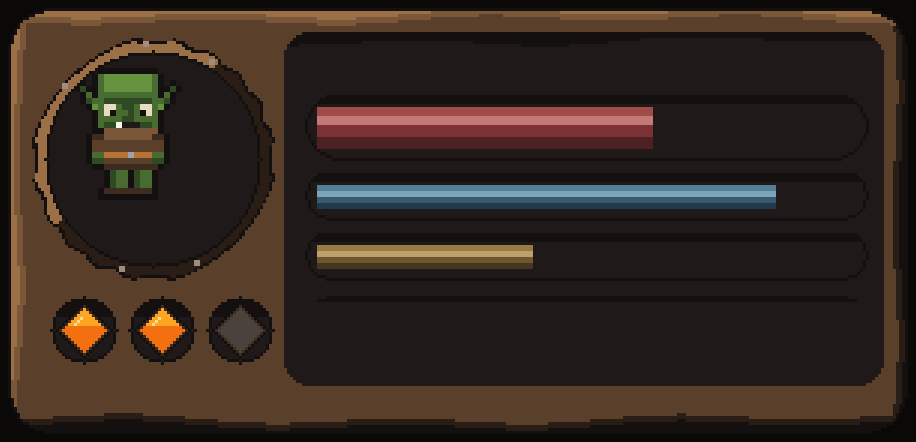
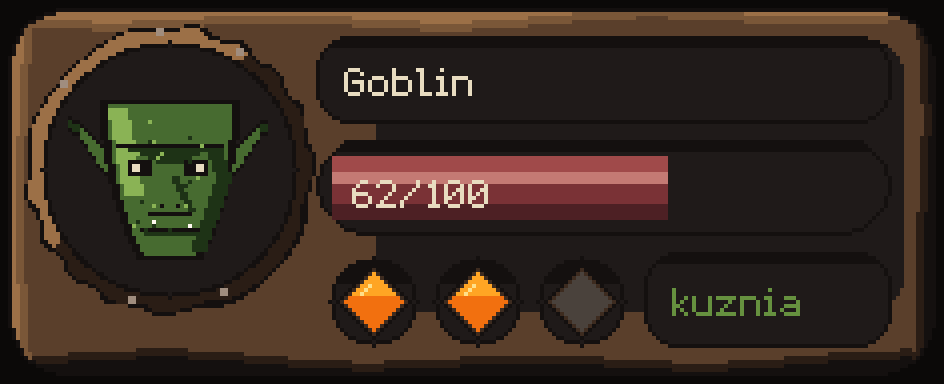
Panel gracza w grze: duza twarz, jeden pasek, uniki, imie i strefa
Uwagi uzytkownika, wszystkie trafione:

- GOBLIN BYL WKLEJONA CALA POSTACIA w rogu. Portret to teraz DUZA TWARZ
  rysowana osobno, w rozdzielczosci portretu. Powiekszony sprite z gry nie
  moze zadzialac: czaszka w swiecie ma dziewiec pikseli wysokosci, wiec po
  powiekszeniu widac dziewiec wielkich kwadratow, a nie twarz. Portret ma
  piecdziesiat i miesci brew, faldy nosa, kiel i cien pod kością policzkowa.
- MANA WYLECIALA. Panel miał trzy gniazda, z ktorych jedno pokazywalo
  nieistniejaca wartosc, a drugie swiecilo pustka - to byla glowna przyczyna
  wrazenia pustki. Zostaje zycie; glod dojdzie razem z jedzeniem, a role
  wytrzymalosci pelnia ladunki uniku.
- PASKI NIEWYMIAROWE. Panel scisniety z 300x142 do 232x92, jeden szeroki
  pasek zycia z liczba w srodku.
- ZADEN TEKST NIE WISI LUZEM: imie, liczba zycia i nazwa strefy maja wlasne
  wglebienia w desce.

Interfejs rysowany w POWIEKSZENIU x3. Kanwa pracuje w pelnej rozdzielczosci
monitora, wiec panel szeroki na 232 piksele zajmowal na ekranie 1920 nieco
ponad dziesiata czesc szerokosci - i tego uzytkownik nie byl w stanie
zobaczyc w grze.

diff --git a/client/src/scenes/Hud.js b/client/src/scenes/Hud.js
@@ -11,6 +11,22 @@ import { createChatInput } from '../ui/chat.js';
 import { bubbleShape, bubbleWidth, BUBBLE_COLORS } from '../render/bubble.js';
 import { DODGE_CHARGES } from '../world/movement.js';
 
+// Uklad panelu gracza. Liczby pochodza z generatora (tools/art/panel.js) i sa
+// tu powtorzone, bo klient nie importuje niczego z narzedzi budowania.
+// Przy zmianie ukladu poprawic w obu miejscach.
+const PANEL_X = 14;
+const PANEL_Y = 14;
+// Interfejs rysujemy w powiekszeniu, tak jak swiat. Kanwa pracuje w pelnej
+// rozdzielczosci monitora, wiec panel szeroki na 232 piksele zajmowalby na
+// ekranie 1920 nieco ponad dziesiata czesc szerokosci - i tego wlasnie
+// uzytkownik nie byl w stanie zobaczyc w grze.
+const UI_SCALE = 3;
+const BAR_SLOTS = [{ key: 'life', x: 78, y: 34, w: 142, h: 22 }];
+const PORTRAIT = { x: 8, y: 8, r: 32 };
+const NAME_SLOT = { x: 78, y: 8, w: 142, h: 20 };
+const PIP_SLOTS = [{ x: 80, y: 62 }, { x: 106, y: 62 }, { x: 132, y: 62 }];
+const ZONE_SLOT = { x: 160, y: 62, w: 60, h: 22 };
+
 // Szerokość nierozciąganego brzegu ramki 9-slice.
 //
 // **Musi zgadzać się z `SLICE` w `tools/art/ui.js`** — to ta sama grafika
@@ -629,45 +645,47 @@ export class HudScene extends Phaser.Scene {
     // Ramka jako sprite dziewięciodzielny — ten sam, którym będą obramowane panel
     // plecaka i okno opcji. Phaser umie 9-slice sam, więc rozciąganie nie rozmywa
     // rogów, choćby pasek miał dowolną szerokość.
-    this.panel = this.add.image(PANEL_X, PANEL_Y, 'ui', 'player_panel')
-      .setOrigin(0, 0)
-      .setScale(UI_SCALE)
-      .setDepth(DEPTH.plate);
+    const at = (x, y) => [PANEL_X + x * UI_SCALE, PANEL_Y + y * UI_SCALE];
 
-    // Wypełnienia pasków rysujemy sami — muszą się zmieniać płynnie, więc nie
-    // mogą być gotowym obrazkiem. Idą **pod** panelem, bo panel ma w sobie
-    // wgłębienia z cieniem i to on ma zostać na wierzchu.
-    this.health = this.add.graphics().setDepth(DEPTH.plate + 1);
+    // Portret **pod** panelem: panel ma wycięte okrągłe gniazdo z cieniem
+    // i to ono ma przykryć krawędzie twarzy.
+    this.portrait = this.add.image(...at(PORTRAIT.x + 8, PORTRAIT.y + 6), 'ui', 'face_0')
+      .setOrigin(0, 0).setScale(UI_SCALE).setDepth(DEPTH.plate - 1);
+
+    // Wypełnienie paska też pod panelem — gniazdo ma zaokrąglone końce i cień
+    // od górnej krawędzi, więc nadmiar wypełnienia chowa się pod nimi.
+    this.health = this.add.graphics().setDepth(DEPTH.plate - 1);
+
+    this.panel = this.add.image(PANEL_X, PANEL_Y, 'ui', 'player_panel')
+      .setOrigin(0, 0).setScale(UI_SCALE).setDepth(DEPTH.plate);
 
     this.healthShown = 1;
     this.healthGhost = 1;
     this.healthValue = 1;
 
-    // Portret w okrągłej ramie panelu: ten sam goblin, którym gra się w świecie.
-    this.portrait = this.add.image(0, 0, 'goblins', 'g0_down_idle0')
-      .setOrigin(0.5, 0.5)
-      .setScale(UI_SCALE * 2)
-      .setDepth(DEPTH.plate + 2);
-
-    this.nameLabel = this.add.bitmapText(0, 0, 'goblin', '', 11)
-      .setScale(UI_SCALE).setTint(TEXT).setDepth(DEPTH.plate + 3);
+    const BAR = BAR_SLOTS[0];
+    this.healthLabel = this.add.bitmapText(...at(BAR.x + 8, BAR.y + 7), 'goblin', '', 11)
+      .setScale(UI_SCALE).setTint(TEXT).setDepth(DEPTH.plate + 1);
+    this.nameLabel = this.add.bitmapText(...at(NAME_SLOT.x + 7, NAME_SLOT.y + 5), 'goblin', '', 11)
+      .setScale(UI_SCALE).setTint(TEXT).setDepth(DEPTH.plate + 1);
 
     // Znaczniki uniku. Pusty i pełny to osobne sprite'y; ładujący się rysujemy
     // przycięciem pełnego, żeby wypełniał się od dołu.
     this.pips = [];
     for (let i = 0; i < DODGE_CHARGES; i++) {
+      const [px, py] = at(PIP_SLOTS[i].x + 2, PIP_SLOTS[i].y + 2);
       this.pips.push({
-        empty: this.add.image(0, 0, 'ui', 'pip_empty')
-          .setOrigin(0, 0).setScale(UI_SCALE).setDepth(DEPTH.plate + 2),
-        full: this.add.image(0, 0, 'ui', 'pip_full')
-          .setOrigin(0, 0).setScale(UI_SCALE).setDepth(DEPTH.plate + 3),
+        full: this.add.image(px, py, 'ui', 'pip_full')
+          .setOrigin(0, 0).setScale(UI_SCALE).setDepth(DEPTH.plate + 1),
       });
     }
     this.dodgeFuel = DODGE_CHARGES;
+
+    this.zone.setPosition(...at(ZONE_SLOT.x + 6, ZONE_SLOT.y + 6)).setScale(UI_SCALE);
   }
 
   setPlayerName(name) {
-    this.playerName = name;
+    this.nameLabel?.setText(name ?? '');
   }
 
   setHealth(hp, maxHp, safe) {
@@ -690,75 +708,38 @@ export class HudScene extends Phaser.Scene {
     this.healthGhost += (this.healthShown - this.healthGhost) * Math.min(1, dt * 2.6);
     if (this.healthGhost < this.healthShown) this.healthGhost = this.healthShown;
 
-    // Cały stan ciała w jednym bloku: pasek życia, a pod nim uniki i nazwa strefy.
-    // Oko ma mieć **jeden adres**, nie trzy rozrzucone po ekranie.
-    // Rozmiar dobrany po uwadze użytkownika, że poprzedniego paska **w ogóle nie
-    // zauważył**. To jest właściwa lekcja o HUD-zie: element czytany kątem oka
-    // musi być wyraźnie większy, niż wydaje się potrzebne, gdy patrzy się na niego
-    // wprost. Poprzedni miał 176×15 i chował się w rogu.
-    const FRAME_W = 232;
-    const FRAME_H = 26;
-    // Lewy górny róg, nie dolny: tam odruchowo szuka się swojego stanu i tam
-    // trzyma go większość gier tego rodzaju.
-    const x = 12;
-    const y = 12;
-    // Wnętrze ramki, licząc jej trzypikselowy brzeg.
-    const bx = x + SLICE;
-    const by = y + SLICE;
-    const bw = FRAME_W - SLICE * 2;
-    const bh = FRAME_H - SLICE * 2;
-
-    this.healthFrame.setPosition(x, y);
+    // Wypelnienie paska zycia. Rysowane pod panelem, ktory ma zaokraglone
+    // gniazdo z cieniem - nadmiar chowa sie pod jego krawedziami.
+    const BAR = BAR_SLOTS[0];
+    const bx = PANEL_X + (BAR.x + 3) * UI_SCALE;
+    const by = PANEL_Y + (BAR.y + 3) * UI_SCALE;
+    const bw = (BAR.w - 6) * UI_SCALE;
+    const bh = (BAR.h - 6) * UI_SCALE;
 
     this.health.clear();
-    this.health.fillStyle(0x231c15, 1);
-    this.health.fillRect(bx, by, bw, bh);
-    // Jasny ślad po świeżej stracie — to on pokazuje wielkość ciosu.
-    this.health.fillStyle(0xffe08a, 0.5);
+    // Jasny slad po swiezej stracie - to on pokazuje wielkosc ciosu.
+    this.health.fillStyle(0xc47a74, 0.85);
     this.health.fillRect(bx, by, Math.round(bw * this.healthGhost), bh);
-    // Zieleń przy pełnym życiu, żar przy resztkach — kolor sam ostrzega.
+    // Rampa life z palety: przygaszona czerwien, nie neon.
     const low = this.healthShown < 0.3;
-    this.health.fillStyle(low ? 0xc43a0d : 0x66913f, 1);
     const filled = Math.round(bw * this.healthShown);
+    this.health.fillStyle(low ? 0x7a3236 : 0xa04a4a, 1);
     this.health.fillRect(bx, by, filled, bh);
-    // Jaśniejszy grzbiet u góry wypełnienia: pasek przestaje być płaską plamą.
-    this.health.fillStyle(low ? 0xf2700f : 0x8ab355, 1);
-    this.health.fillRect(bx, by, filled, 2);
+    this.health.fillStyle(low ? 0xa04a4a : 0xc47a74, 1);
+    this.health.fillRect(bx, by, filled, Math.round(bh * 0.34));
 
-    if (!this.healthLabel) {
-      this.healthLabel = this.add.bitmapText(0, 0, 'goblin', '', 11)
-        .setDepth(DEPTH.plate + 2)
-        .setTint(TEXT);
-    }
-    // Liczba **w pasku**, nie obok niego: obok robi się z niej osobny element,
-    // którego oko musi szukać. W środku jest częścią paska.
-    this.healthLabel.setPosition(bx + 5, by + Math.round((bh - 11) / 2));
     this.healthLabel.setText(this.healthText ?? '');
 
-    // Uniki pod paskiem.
-    //
-    // Ładujący się znacznik **wypełnia się od dołu**, więc widać nie tylko ile
-    // masz, ale ile *zaraz* będziesz miał — a to jest różnica między „mam jeden"
-    // a „za pół sekundy mam dwa", czyli dokładnie ta informacja, na której opiera
-    // się decyzja o wejściu w zwarcie.
-    const py = y + FRAME_H + 4;
+    // Uniki: ladujacy sie znacznik wypelnia sie OD DOLU, wiec widac nie tylko
+    // ile masz, ale ile zaraz bedziesz mial.
     this.pips.forEach((pip, i) => {
-      const px = x + 2 + i * 23;
-      pip.empty.setPosition(px, py);
-      pip.full.setPosition(px, py);
-
       const part = Math.max(0, Math.min(1, this.dodgeFuel - i));
       pip.full.setVisible(part > 0);
       if (part <= 0) return;
       const h = pip.full.height;
       const shown = Math.max(1, Math.round(h * part));
-      // Przycinamy od dołu: widoczny zostaje dolny pasek pełnego rombu.
       pip.full.setCrop(0, h - shown, pip.full.width, shown);
     });
-
-    // Nazwa strefy pod znacznikami — najmniejszy element bloku, bo zmienia się
-    // rzadko. Kolor niesie w niej całą treść.
-    this.zone.setPosition(x + 3, py + 24);
   }
 
   update(time, delta) {
@@ -783,3 +764,5 @@ export class HudScene extends Phaser.Scene {
     }
   }
 }
+
+

diff --git a/tools/art/panel.js b/tools/art/panel.js
@@ -22,27 +22,127 @@ import { Canvas } from './canvas.js';
 import { c } from './palette.js';
 import { makeRng, seedFrom } from './rng.js';
 
-export const PANEL_W = 300;
-export const PANEL_H = 142;
+export const PANEL_W = 232;
+export const PANEL_H = 92;
 
-// Gniazda pasków w układzie panelu — gra maluje w nich wypełnienie i liczby.
-export const BAR_SLOTS = [
-  { key: 'life', x: 100, y: 30, w: 186, h: 20 },
-  { key: 'stamina', x: 100, y: 56, w: 186, h: 14 },
-  { key: 'food', x: 100, y: 76, w: 186, h: 14 },
-];
-export const PORTRAIT = { x: 12, y: 14, r: 36 };
-export const NAME_AT = { x: 100, y: 12 };
-
-// Gniazda znaczników uniku i pasek nazwy strefy — **w panelu**, nie obok niego.
+// Paski: **tylko te, które istnieją w grze.**
 //
-// Zasada wyniesiona wprost od użytkownika: żaden tekst ani znak nie może wisieć
-// luzem na ekranie. Napis bez pojemnika czyta się jak nakładka na grę, a nie jak
-// jej część — i to wybija z gry mocniej niż brak informacji.
-export const PIP_SLOTS = [
-  { x: 14, y: 96 }, { x: 40, y: 96 }, { x: 66, y: 96 },
+// Poprzedni układ miał trzy: życie, wytrzymałość i głód. Wytrzymałości nie ma
+// i długo nie będzie — jej rolę pełnią ładunki uniku — a głód dojdzie dopiero
+// razem z jedzeniem. Trzy gniazda, z których jedno świeciło pustką, a drugie
+// pokazywało nieistniejącą wartość, to była główna przyczyna wrażenia pustki:
+// panel obiecywał trzy rzeczy, a niósł jedną.
+export const BAR_SLOTS = [
+  { key: 'life', x: 78, y: 34, w: 142, h: 22 },
 ];
-export const ZONE_SLOT = { x: 100, y: 96, w: 186, h: 22 };
+export const PORTRAIT = { x: 8, y: 8, r: 32 };
+export const NAME_SLOT = { x: 78, y: 8, w: 142, h: 20 };
+
+// Gniazda znaczników uniku — w panelu, nie obok niego. Żaden znak ani tekst nie
+// może wisieć luzem na ekranie: bez pojemnika czyta się jak nakładka na grę.
+export const PIP_SLOTS = [
+  { x: 80, y: 62 }, { x: 106, y: 62 }, { x: 132, y: 62 },
+];
+export const ZONE_SLOT = { x: 160, y: 62, w: 60, h: 22 };
+
+/**
+ * Twarz goblina do portretu — **rysowana osobno**, w rozdzielczości portretu.
+ *
+ * Nie jest to powiększony sprite z gry i to jest tu sedno. Postać w świecie ma
+ * czaszkę wysoką na dziewięć pikseli: po powiększeniu do portretu widać z niej
+ * dziewięć wielkich kwadratów, a nie twarz. Portret ma pięćdziesiąt pikseli
+ * i mieści to, czego w sprite'cie nie da się zmieścić — brew, fałdę nosa,
+ * kieł, cień pod kością policzkową.
+ *
+ * Rysowana **sama głowa**, nie sylwetka. Cała postać wciśnięta w kółko czyta się
+ * jak figurka w słoiku; portret to twarz.
+ */
+export function goblinFace(name, { skin = ['#1e3316', '#476b30', '#8ab355'] } = {}) {
+  const rng = makeRng(seedFrom(name));
+  const S = 50;
+  const t = new Canvas(S, S);
+  const [dark, mid, light] = skin;
+  const edge = c('soot', 0);
+
+  const cx = 25;
+  const cy = 27;
+
+  // Uszy: długie, spiczaste, odstające. To one robią goblina — bez nich każda
+  // zielona głowa jest po prostu zielona.
+  const ear = (dir) => {
+    for (let i = 0; i < 16; i++) {
+      const x = cx + dir * (13 + i);
+      const y = cy - 4 - Math.round(i * 0.85);
+      const grubosc = Math.max(1, 7 - Math.round(i * 0.45));
+      for (let g = 0; g < grubosc; g++) t.px(x, y + g, i < 10 ? mid : dark);
+      t.px(x, y - 1, edge);
+      t.px(x, y + grubosc, edge);
+    }
+  };
+  ear(-1);
+  ear(1);
+
+  // Czaszka: szeroka u góry, zwężająca się w podbródek.
+  for (let y = -19; y <= 20; y++) {
+    const k = (y + 19) / 39;
+    const szer = Math.round(17 - k * k * 9);
+    for (let x = -szer; x <= szer; x++) {
+      const brzeg = Math.abs(x) >= szer - 1 || y === -19 || y === 20;
+      t.px(cx + x, cy + y, brzeg ? edge : mid);
+    }
+  }
+  // Światło z góry z lewej, cień po prawej i pod policzkami.
+  for (let y = -17; y <= 4; y++) {
+    const k = (y + 17) / 21;
+    const szer = Math.round(15 - k * 4);
+    for (let x = -szer; x <= -szer + 4; x++) t.px(cx + x, cy + y, light);
+  }
+  for (let y = -8; y <= 18; y++) {
+    const szer = Math.round(15 - Math.abs(y) * 0.35);
+    for (let x = szer - 3; x <= szer; x++) t.px(cx + x, cy + y, dark);
+  }
+
+  // Brwi: gruba, nawisająca kość — goblin patrzy spode łba.
+  for (let x = -13; x <= 13; x++) {
+    const h = 3 + Math.round(Math.cos(x * 0.24) * 2);
+    for (let g = 0; g < h; g++) t.px(cx + x, cy - 8 + g, g === 0 ? edge : dark);
+  }
+
+  // Oczy pod brwiami, głęboko osadzone.
+  for (const side of [-1, 1]) {
+    const ex = cx + side * 7;
+    t.rect(ex - 3, cy - 4, 6, 4, edge);
+    t.rect(ex - 2, cy - 3, 4, 2, c('parchment'));
+    t.rect(ex - (side < 0 ? 0 : 2), cy - 3, 2, 2, c('soot', 0));
+  }
+
+  // Nos: szeroki, zadarty, z nozdrzami.
+  for (let y = 0; y <= 8; y++) {
+    const szer = 2 + Math.round(y * 0.45);
+    for (let x = -szer; x <= szer; x++) t.px(cx + x, cy + y, x > szer - 2 ? dark : mid);
+  }
+  t.px(cx - 2, cy + 7, edge);
+  t.px(cx + 2, cy + 7, edge);
+  t.hline(cx - 5, cx + 5, cy + 9, edge);
+
+  // Usta z kłem wystającym z dolnej wargi.
+  t.hline(cx - 7, cx + 7, cy + 13, edge);
+  t.hline(cx - 6, cx + 6, cy + 14, dark);
+  t.px(cx - 4, cy + 12, c('bone'));
+  t.px(cx - 4, cy + 11, c('bone'));
+  t.px(cx + 5, cy + 12, c('bone'));
+
+  // Cętki na skórze — nierówne, po kilka pikseli. Gładka zieleń wygląda jak plastik.
+  for (let i = 0; i < 22; i++) {
+    const a = rng.range(0, Math.PI * 2);
+    const d = rng.range(4, 14);
+    const x = Math.round(cx + Math.cos(a) * d);
+    const y = Math.round(cy + Math.sin(a) * d * 1.2);
+    if (t.alphaAt(x, y)) t.px(x, y, rng.chance(0.5) ? dark : light);
+  }
+
+  return t;
+}
 
 /** Czy punkt leży w prostokącie o zaokrąglonych rogach. */
 function inRound(x, y, rect, r) {
@@ -169,11 +269,20 @@ export function playerPanel(name) {
     }
   }
 
-  // 5c. Pasek nazwy strefy — wgłębienie na tekst, żeby napis miał swoje miejsce.
-  for (let y = ZONE_SLOT.y; y < ZONE_SLOT.y + ZONE_SLOT.h; y++) {
-    for (let x = ZONE_SLOT.x; x < ZONE_SLOT.x + ZONE_SLOT.w; x++) {
-      if (!inRound(x, y, ZONE_SLOT, 7)) continue;
-      t.px(x, y, y - ZONE_SLOT.y < 2 ? edge : inside);
+  // 5c. Gniazda na tekst: nazwa strefy i imię. Wgłębienia, żeby napis miał swoje
+  // miejsce, a nie wisiał na desce.
+  for (const slot of [ZONE_SLOT, NAME_SLOT]) {
+    for (let y = slot.y - 1; y < slot.y + slot.h + 1; y++) {
+      for (let x = slot.x - 1; x < slot.x + slot.w + 1; x++) {
+        const wewnatrz = inRound(x, y, slot, 6);
+        const przy = !wewnatrz && (
+          inRound(x - 1, y, slot, 6) || inRound(x + 1, y, slot, 6)
+          || inRound(x, y - 1, slot, 6) || inRound(x, y + 1, slot, 6)
+        );
+        if (przy) { t.px(x, y, edge); continue; }
+        if (!wewnatrz) continue;
+        t.px(x, y, y - slot.y < 2 ? c('soot', 0) : inside);
+      }
     }
   }
 

diff --git a/tools/art/ui.js b/tools/art/ui.js
@@ -17,7 +17,8 @@
 import { Canvas } from './canvas.js';
 import { c } from './palette.js';
 import { makeRng, seedFrom } from './rng.js';
-import { playerPanel } from './panel.js';
+import { playerPanel, goblinFace, PANEL_W, PANEL_H, BAR_SLOTS, PIP_SLOTS, PORTRAIT, NAME_SLOT, ZONE_SLOT } from './panel.js';
+export { PANEL_W, PANEL_H, BAR_SLOTS, PIP_SLOTS, PORTRAIT, NAME_SLOT, ZONE_SLOT };
 
 const rngFor = (name) => makeRng(seedFrom(name));
 
@@ -218,6 +219,9 @@ export function buildUi() {
   // więc nie ma powodu go rozciągać — a rozciąganie wymusza idealną
   // powtarzalność, czyli dokładnie to, co miało zniknąć.
   add('player_panel', playerPanel('player_panel'));
+  // Twarz do portretu — rysowana osobno, w rozdzielczości portretu. Powiększony
+  // sprite z gry dałby dziewięć wielkich kwadratów zamiast twarzy.
+  add('face_0', goblinFace('face_0'));
 
   // Wypełnienia pasków: jeden pionowy plasterek na rampę, rozciągany w poziomie.
   for (const ramp of ['life', 'stamina', 'food']) {
@@ -229,4 +233,5 @@ export function buildUi() {
 
   return entries;
 }
+
 

diff --git a/client/src/scenes/Forge.js b/client/src/scenes/Forge.js
@@ -192,6 +192,7 @@ export class ForgeScene extends Phaser.Scene {
       entered.then((result) => {
         const hud = this.scene.get('Hud');
         hud?.setHello(result.name, result.fresh);
+        hud?.setPlayerName(result.name);
         hud?.enableChat((text) => this.net.sendChat(text));
         hud?.setRosterSource(() => this.buildRoster());
       });
@@ -1180,3 +1181,4 @@ export class ForgeScene extends Phaser.Scene {
     this.lastSafe = safe;
   }
 }
+
